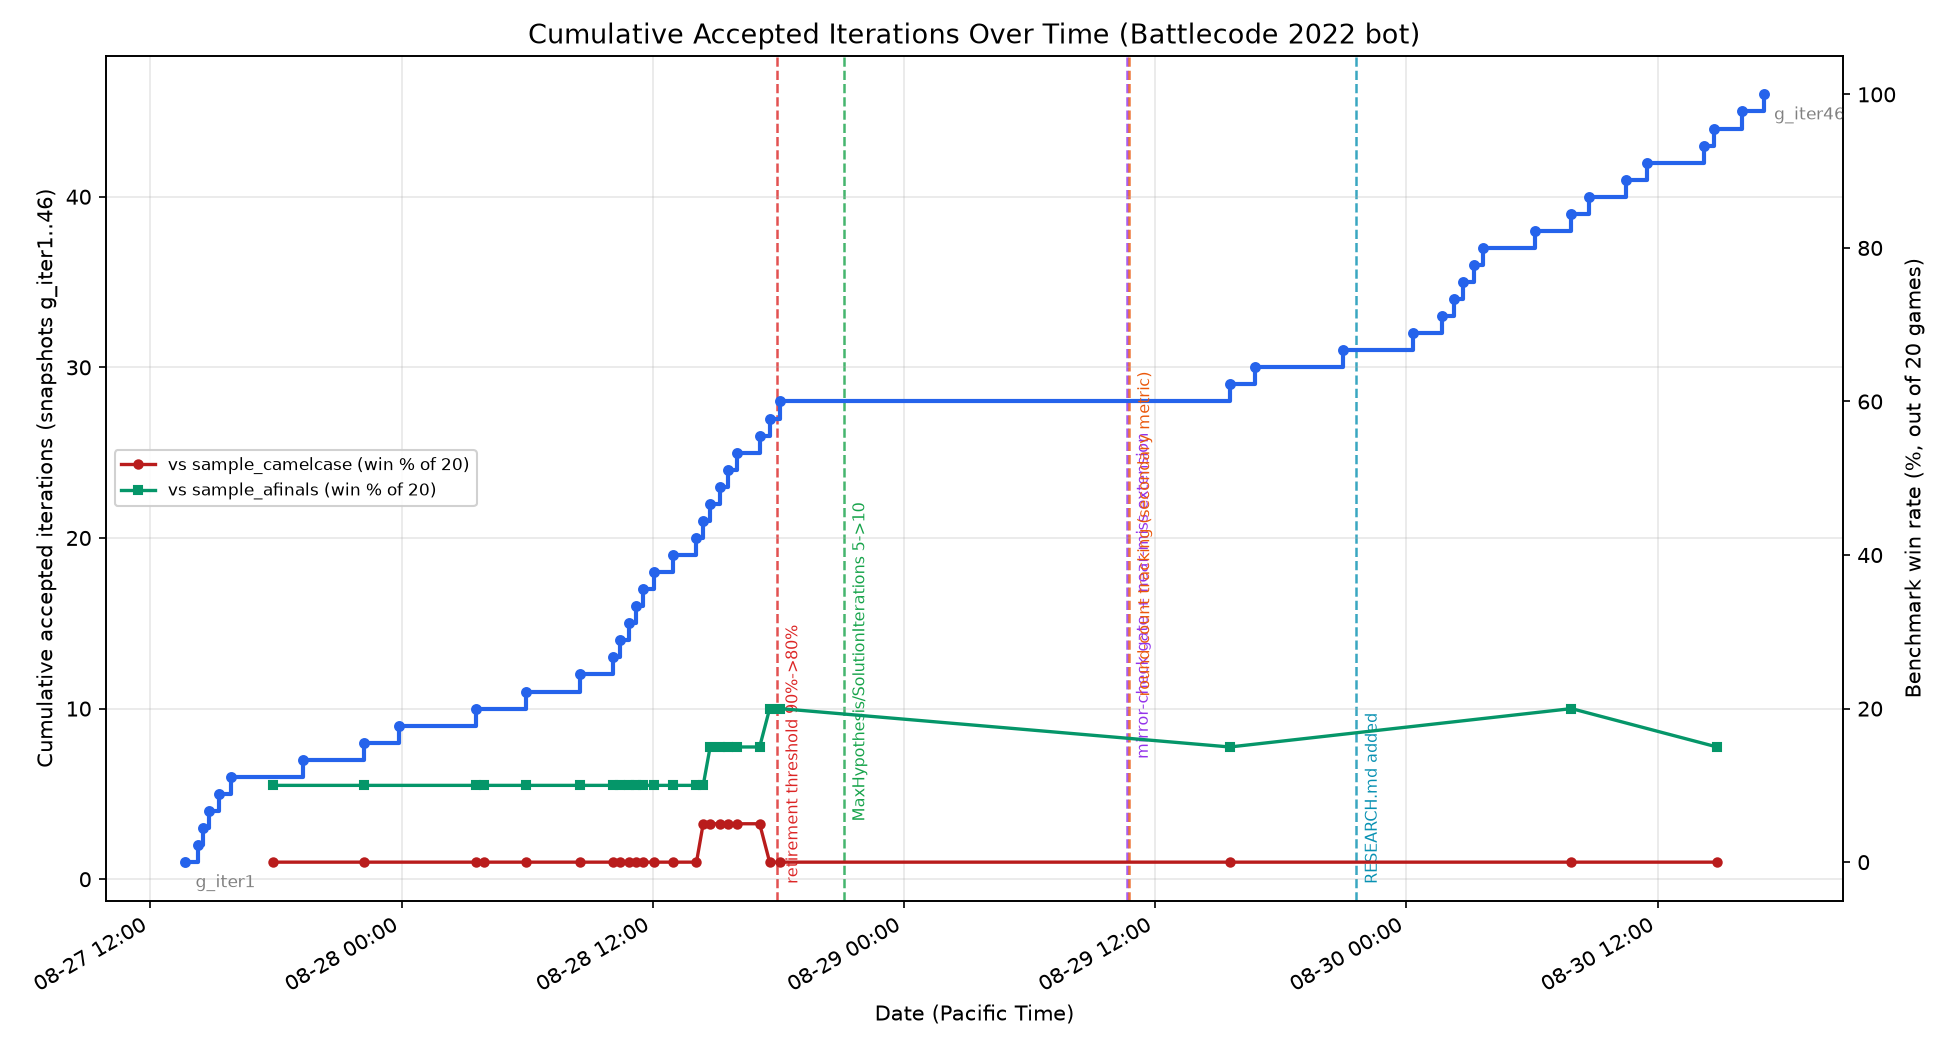
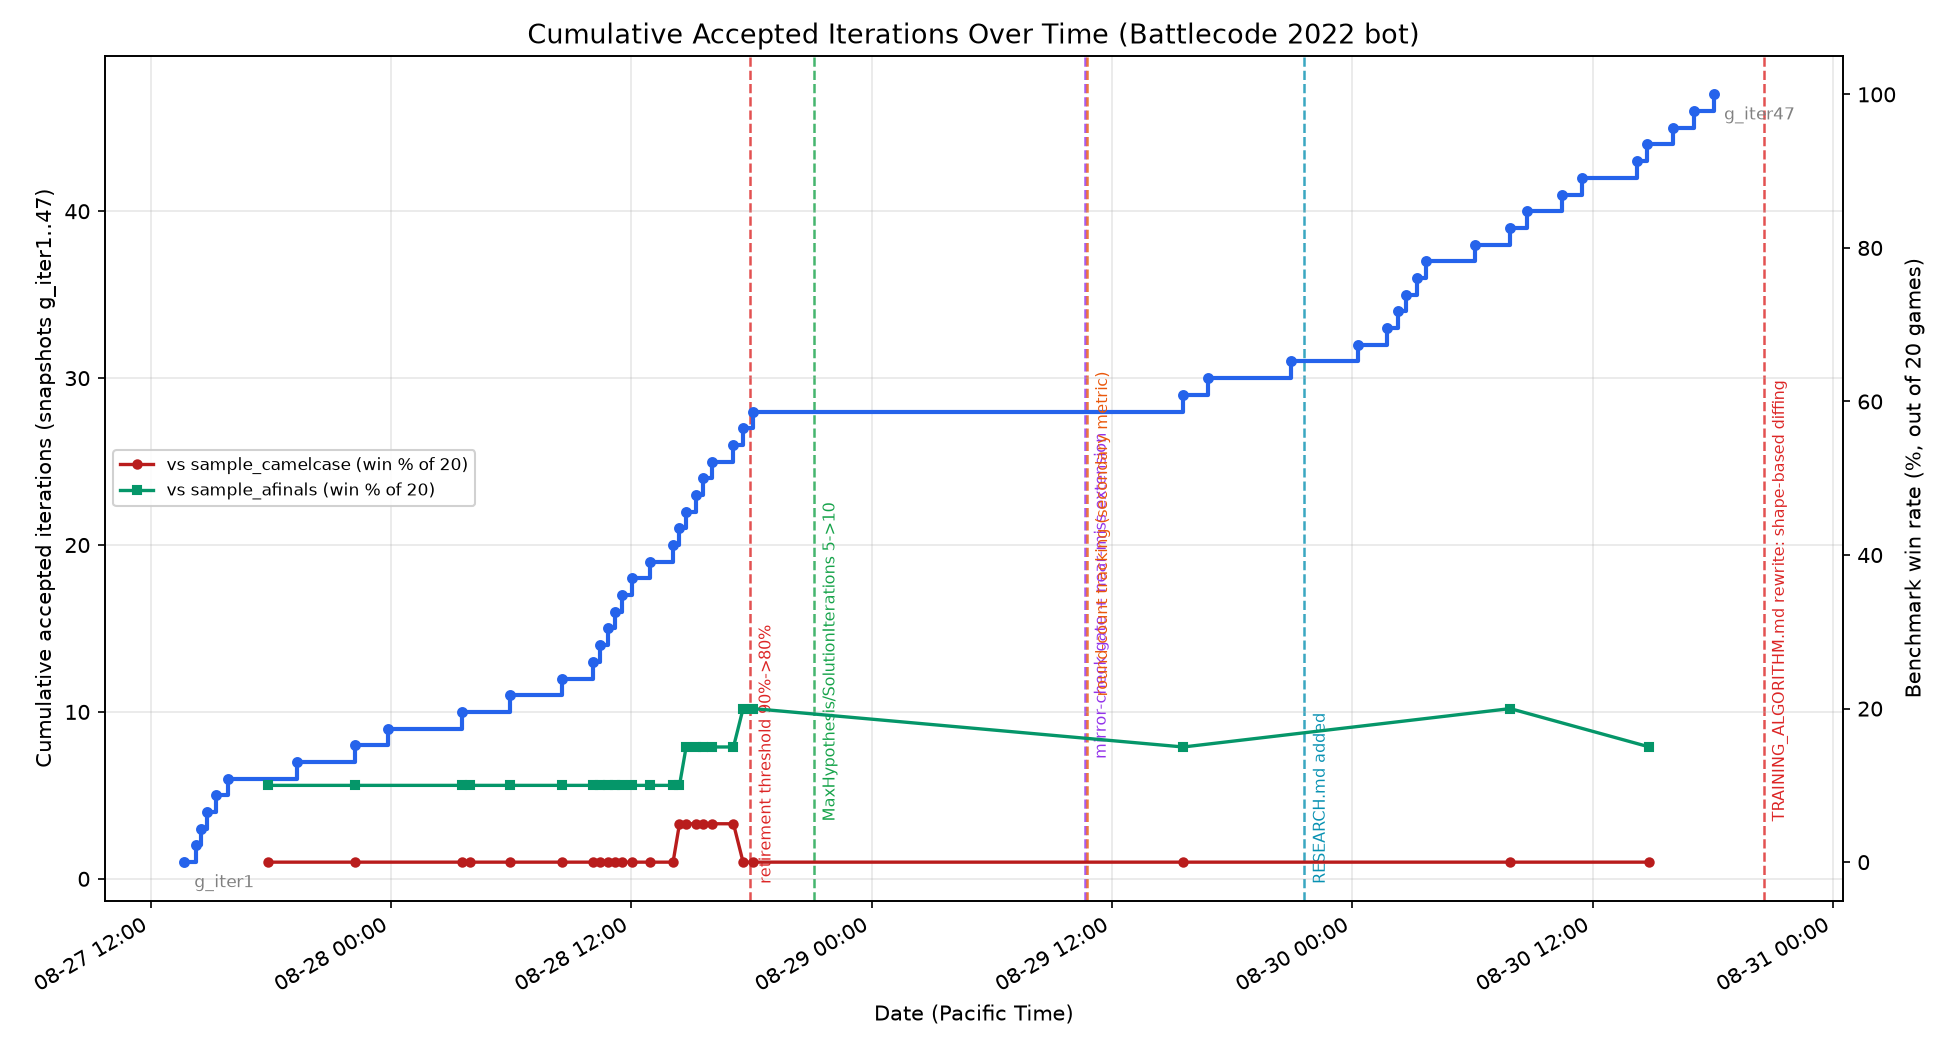
Log TRAINING_ALGORITHM.md rewrite; add MILESTONES marker and refresh progress chart

diff --git a/tools/plot_progress.py b/tools/plot_progress.py
@@ -34,6 +34,7 @@ MILESTONES = [
     ("mirror-check gate + near-miss extension", "9dd8da6"),
     ("round-count tracking (secondary metric)", "48ab983"),
     ("RESEARCH.md added", "d3d2e5c"),
+    ("TRAINING_ALGORITHM.md rewrite: shape-based diffing", "6b492e1"),
 ]
 
 # Benchmark-bot win tallies (out of 20 games) over time, as recorded in

diff --git a/TRAINING_LOG.md b/TRAINING_LOG.md
@@ -8564,3 +8564,63 @@ still fixing the original over-commitment problem on richer maps --
 but that's real added complexity and would need its own careful
 verification pass, not attempted further this cycle given the time
 already spent finding and characterizing this regression.
+
+## TRAINING_ALGORITHM.md rewrite: formalizing this session's actual verification methodology
+
+At the user's request, rewrote `TRAINING_ALGORITHM.md` to match how
+Iterations 90-103 actually operated, which had diverged from the
+written algorithm in several places, always toward a stronger,
+cheaper, more information-rich process than what was on paper:
+
+1. **Step 6.4's "must win the motivating game or undo" requirement
+   was routinely and deliberately not followed.** Iterations 96, 97,
+   99, 100, 101 were all accepted without winning their motivating
+   game, verified instead by mechanistic evidence (`--metrics`/
+   `--indicators` showing the fix engaged and changed behavior as
+   designed) plus a clean broad-Gauntlet result. Discussed a
+   round-count-only version of this relaxation with the user earlier
+   tonight and it was correctly rejected as too weak a signal alone --
+   what's actually been working is mechanistic verification, not round
+   count by itself. The rewrite makes this the real Step 6.4 gate (3
+   outcomes: won / lost-but-engaged-with-an-evidenced-account-for-why /
+   no evidence -- only the third undoes).
+2. **The old single mirror check (aggregate win rate vs. one
+   opponent) is weaker than the diff-based, shape-aware method
+   actually used all session**: an 8-peer reproduction sample diffed
+   game-by-game against a maintained baseline, escalating to a full
+   Gauntlet (also diffed) for anything touching build/priority/
+   threshold logic. The *shape* of a diff -- one-directional and
+   concentrated on one map/side across many opponents (Iteration
+   102's 15-diff, all-win->loss, 9-opponent `squer` sweep) vs. small,
+   scattered, mixed-direction (ordinary near-mirror noise on already-
+   fragile maps) -- is what actually separated real regressions from
+   noise this session, not the aggregate number.
+3. Added an explicit "diagnosed regression -> targeted refinement"
+   path (exactly Iteration 102 -> 103's pattern tonight), a "verified
+   true but don't act on it" escape hatch for hypotheses that would
+   revert previously-documented reasoning (used twice this session:
+   the `g_iter17`/`maptestsmall` infrastructure trade-off, and the
+   `needBuilder` contact-gate idea), and a soft nudge to prefer fresh
+   territory once an area shows a repeated "already correctly tuned"
+   pattern (build-priority timing, this session, after Iterations
+   96/97/99/100/101 and two diagnostic-only cycles).
+4. Replaced the practice of diffing against one fixed, increasingly
+   stale baseline file (requiring manual tracking of "already-known"
+   flips) with a maintained baseline that's superseded on every
+   accept.
+5. Noted that the replay archive (`replays/`) silently fell 14
+   iterations behind (last entry: Iteration 73) despite being
+   required, and tied it to the accept/reject commit itself going
+   forward instead of a separate step to remember.
+
+None of the Gauntlet/peer/benchmark/retirement machinery changed --
+that's been stable and well-validated across the whole project.
+
+Added a `MILESTONES` marker (commit `6b492e1`) to
+`tools/plot_progress.py` per the standing rule, and refreshed the
+progress chart (47 accepted iterations).
+
+**Per explicit user instruction: follow the new algorithm for the
+rest of tonight; in the morning, evaluate together whether to keep it
+or revert to the prior version** (preserved in git history at the
+commit immediately before this one).
